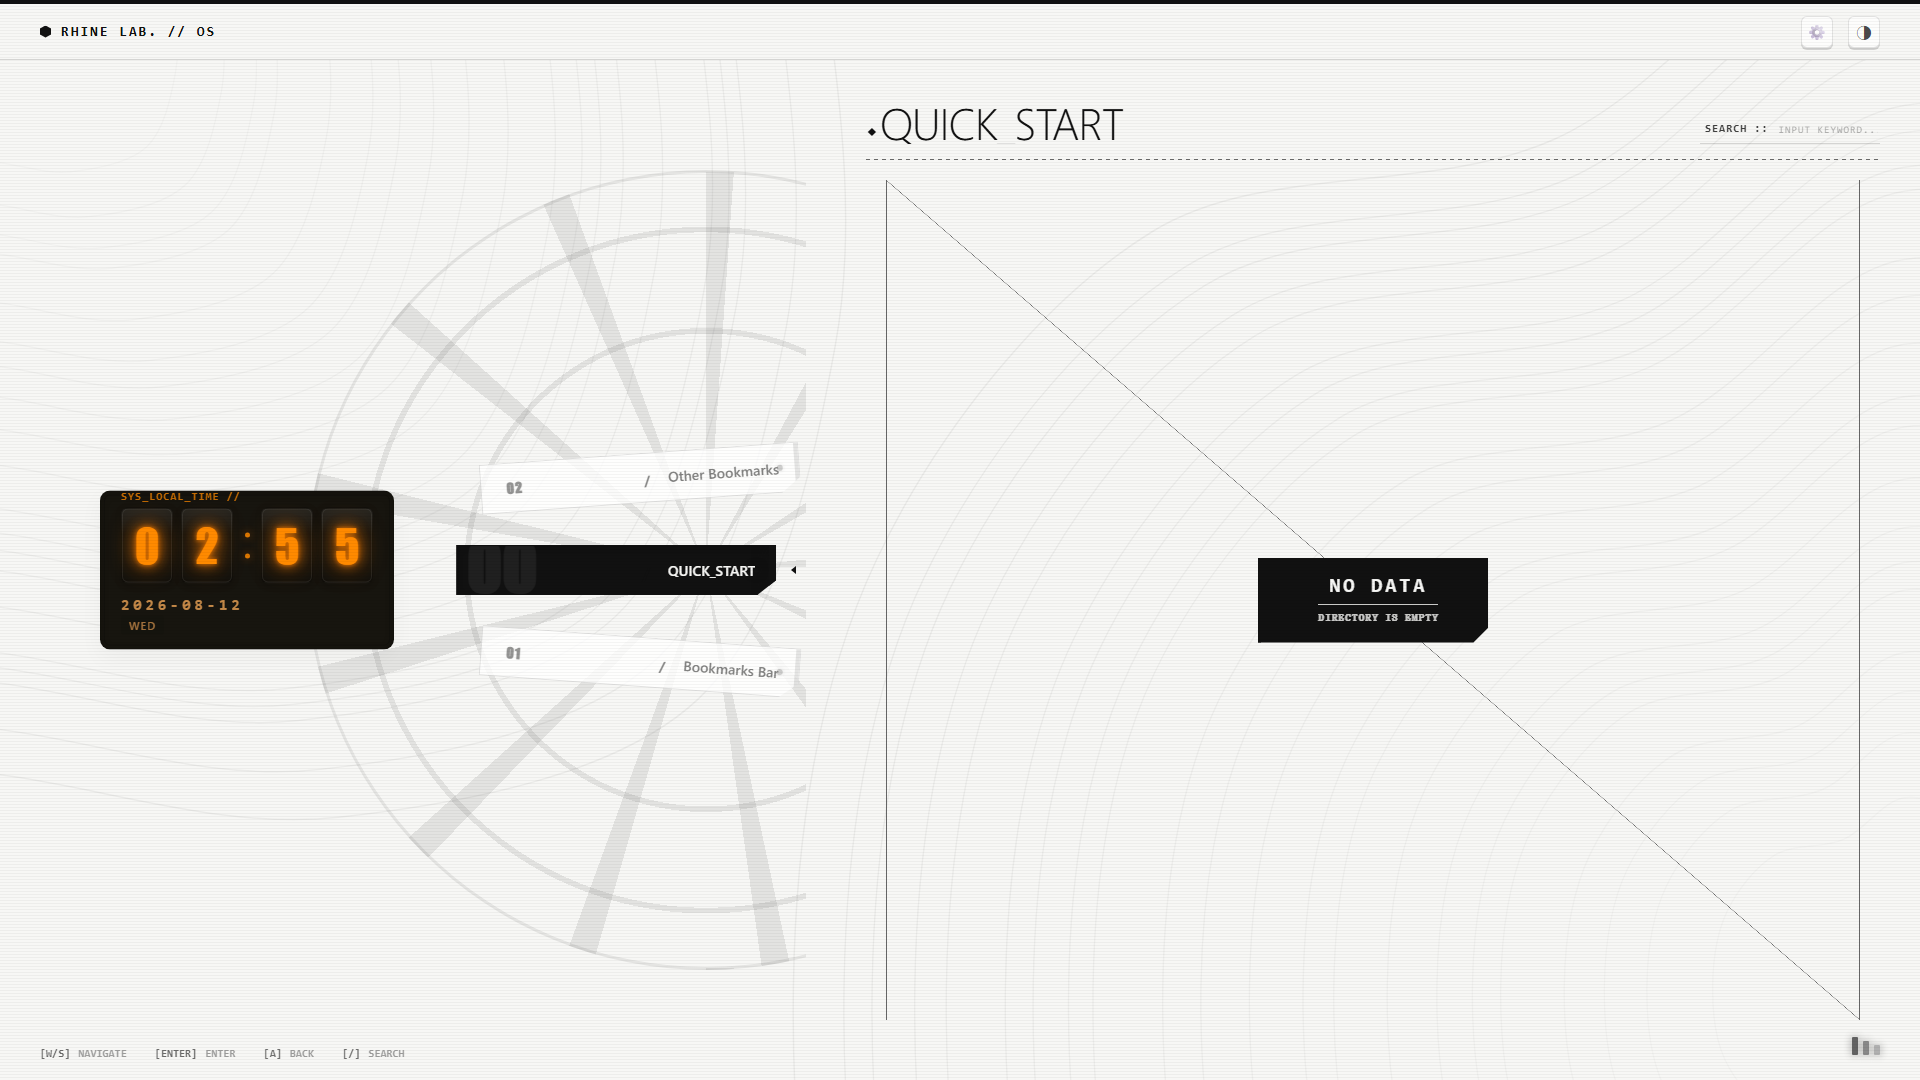
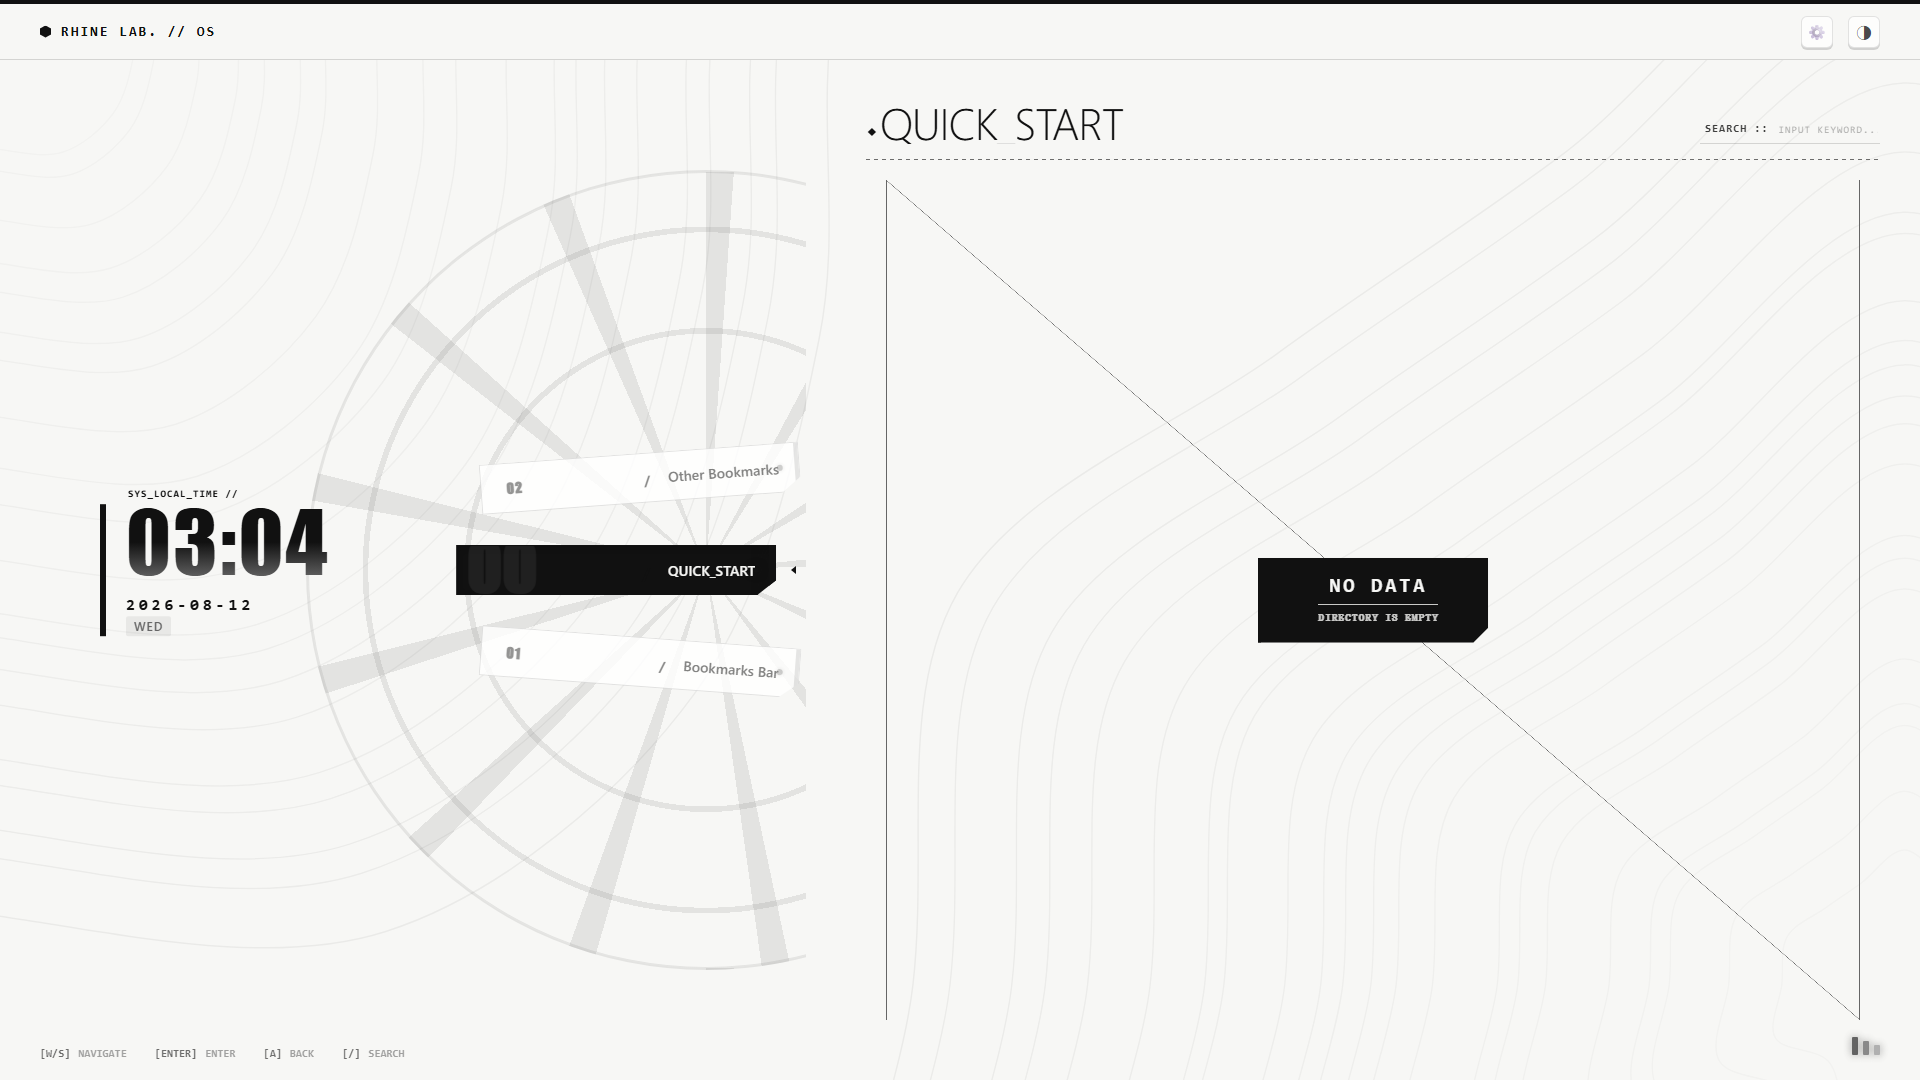
fix(ui): remove scanlines and Nixie tube clock, restore main-branch HUD clock
- base.css: removed CRT scanline overlay (body::after)
- clock.js: back to single textContent render (no per-digit spans)
- clock.css: restored main-branch HUD clock (Impact 84px gradient text, accent left bar, SYS_LOCAL_TIME label, date/week)
- variables.css: removed now-unused --tube*/--nixie*/--scanline tokens
- regenerate screenshots

Changed region(s): [[0.0312, 0.4278, 0.2188, 0.6111]]

diff --git a/LoneTrail-Tab/css/modules/clock.css b/LoneTrail-Tab/css/modules/clock.css
@@ -1,4 +1,4 @@
-/* 时钟容器：辉光管机架 */
+/* 时钟容器：HUD 风格 */
 .clock-container {
     position: absolute;
     left: 100px;
@@ -10,13 +10,9 @@
     flex-direction: column;
     justify-content: center;
 
-    padding: 16px 20px 14px;
-    background: var(--tube);
-    border: 1px solid var(--border);
-    border-radius: 10px;
-    box-shadow: inset 0 2px 8px var(--key-shadow), 0 8px 24px var(--shadow-soft);
-    outline: 1px solid var(--border);
-    outline-offset: -5px;
+    /* 左侧粗装饰线，增强锚点感 */
+    padding-left: 20px;
+    border-left: 6px solid var(--accent);
 
     pointer-events: none;
     transition: opacity 0.3s;
@@ -24,94 +20,44 @@
 
 .clock-container.hidden { opacity: 0; }
 
-/* 时间：一排辉光管 */
+/* 时间 (HH:MM) */
 .clock-time {
+    /* 使用等宽字体，数字对齐更漂亮 */
+    font-family: "Impact", "Roboto Mono", monospace;
+    font-size: 84px;
+    font-weight: 400;
+    line-height: 0.9;
+    letter-spacing: 2px;
+
+    color: var(--text-main);
+    /* 文字渐变 (仅 Webkit 支持，增强科技感) */
+    background: linear-gradient(to bottom, var(--text-main) 50%, var(--text-sub) 100%);
+    background-clip: text;
+    -webkit-background-clip: text;
+    /* 文字填充透明 */
+    color: transparent;
+    -webkit-text-fill-color: transparent;
+
     position: relative;
-    display: flex;
-    align-items: center;
-    gap: 8px;
 }
 
 /* 装饰标签 SYS_TIME */
 .clock-time::before {
     content: "SYS_LOCAL_TIME //";
     position: absolute;
-    top: -18px;
-    left: 0;
-    font-size: 11px;
-    color: var(--nixie);
+    top: -14px;
+    left: 2px;
+    font-size: 10px;
+    color: var(--accent);
     letter-spacing: 1px;
     font-family: var(--font-stack);
     font-weight: bold;
-    opacity: 0.75;
-}
-
-/* 单个辉光管 */
-.nixie-digit {
-    position: relative;
-    width: 52px;
-    height: 76px;
-    display: flex;
-    align-items: center;
-    justify-content: center;
-    border-radius: 7px;
-    background:
-        linear-gradient(180deg, var(--tube-sheen) 0%, transparent 35%, transparent 70%, var(--key-shadow) 100%),
-        var(--tube);
-    border: 1px solid var(--border);
-    box-shadow: inset 0 0 0 1px var(--tube-sheen), 0 2px 6px var(--key-shadow);
-    font-family: "Impact", "Roboto Mono", monospace;
-    font-size: 46px;
-    font-weight: 400;
-    line-height: 1;
-    color: var(--nixie);
-    text-shadow:
-        0 0 4px var(--nixie-glow),
-        0 0 12px var(--nixie-glow),
-        0 0 26px var(--nixie-glow);
-}
-
-/* 叠层幽灵数字（阴极片） */
-.nixie-digit::before {
-    content: attr(data-digit);
-    position: absolute;
-    inset: 0;
-    display: flex;
-    align-items: center;
-    justify-content: center;
-    font-family: inherit;
-    font-size: 44px;
-    color: var(--nixie);
-    opacity: 0.16;
-    filter: blur(1.5px);
-    transform: translateY(2px);
-    pointer-events: none;
-}
-
-/* 冒号：两个发光点 */
-.nixie-sep {
-    width: 12px;
-    height: 76px;
-    display: flex;
-    flex-direction: column;
-    align-items: center;
-    justify-content: center;
-    gap: 16px;
-}
-.nixie-sep::before,
-.nixie-sep::after {
-    content: '';
-    width: 5px;
-    height: 5px;
-    border-radius: 50%;
-    background: var(--nixie);
-    box-shadow: 0 0 8px var(--nixie-glow);
-    opacity: 0.85;
+    -webkit-text-fill-color: var(--accent); /* 覆盖上面的渐变 */
 }
 
 /* 日期与星期容器 */
 .clock-meta {
-    margin-top: 12px;
+    margin-top: 15px;
     display: flex;
     flex-direction: column;
     gap: 2px;
@@ -119,22 +65,22 @@
 
 /* 日期 */
 .clock-date {
-    font-size: 15px;
+    font-size: 16px;
     font-weight: 700;
-    color: var(--tube-text);
+    color: var(--text-main);
     letter-spacing: 4px;
     font-family: var(--font-stack);
 }
 
 /* 星期 */
 .clock-week {
-    font-size: 11px;
-    color: var(--tube-text);
+    font-size: 12px;
+    color: var(--text-sub);
     letter-spacing: 1px;
     text-transform: uppercase;
     font-weight: 600;
-    opacity: 0.8;
 
+    /* 变成一个小标签样式 */
     display: inline-block;
     background: var(--inset);
     padding: 2px 8px;

diff --git a/LoneTrail-Tab/css/variables.css b/LoneTrail-Tab/css/variables.css
@@ -51,17 +51,9 @@
     --led-glow: rgba(17, 17, 17, 0.5);
     --key-highlight: rgba(255, 255, 255, 0.9);
     --key-shadow: rgba(0, 0, 0, 0.20);
-    --scanline: rgba(0, 0, 0, 0.04);
     --vu-1: #333333;
     --vu-2: #666666;
     --vu-3: #999999;
-
-    /* 辉光管（亮色下唯一暖色点缀） */
-    --tube: #17150F;
-    --tube-sheen: rgba(255, 255, 255, 0.08);
-    --tube-text: rgba(255, 176, 92, 0.75);
-    --nixie: #FF8A00;
-    --nixie-glow: rgba(255, 128, 0, 0.65);
 
     /* 字体 */
     --font-ui: "Segoe UI", "Microsoft YaHei", "PingFang SC", "Helvetica Neue", sans-serif;
@@ -114,16 +106,8 @@
     --led-glow: rgba(51, 255, 102, 0.8);
     --key-highlight: rgba(255, 255, 255, 0.10);
     --key-shadow: rgba(0, 0, 0, 0.55);
-    --scanline: rgba(0, 0, 0, 0.32);
     --phosphor-glow: rgba(51, 255, 102, 0.55);
     --vu-1: #33FF66;
     --vu-2: #E9B949;
     --vu-3: #FF5555;
-
-    /* 辉光管（经典暖橙，明暗一致） */
-    --tube: #050705;
-    --tube-sheen: rgba(255, 255, 255, 0.08);
-    --tube-text: rgba(255, 176, 92, 0.75);
-    --nixie: #FF8A00;
-    --nixie-glow: rgba(255, 128, 0, 0.65);
 }

diff --git a/LoneTrail-Tab/js/clock.js b/LoneTrail-Tab/js/clock.js
@@ -28,13 +28,7 @@ function updateClock() {
     const dateEl = document.getElementById('clock-date');
     const weekEl = document.getElementById('clock-week');
 
-    if (timeEl) {
-        timeEl.innerHTML = [...`${hours}:${minutes}`]
-            .map(ch => ch === ':'
-                ? '<span class="nixie-sep"></span>'
-                : `<span class="nixie-digit" data-digit="${ch}">${ch}</span>`)
-            .join('');
-    }
+    if (timeEl) timeEl.textContent = `${hours}:${minutes}`;
 
     if (dateEl) {
         const year = now.getFullYear();

diff --git a/LoneTrail-Tab/css/base.css b/LoneTrail-Tab/css/base.css
@@ -73,19 +73,6 @@ body {
     }
 }
 
-/* CRT 扫描线（暗色明显、明色极淡） */
-body::after {
-    content: '';
-    position: fixed;
-    inset: 0;
-    z-index: 9999;
-    pointer-events: none;
-    background: repeating-linear-gradient(
-        0deg,
-        transparent 0 2px,
-        var(--scanline) 2px 3px
-    );
-}
 
 /* =========================================
    UTILITIES
